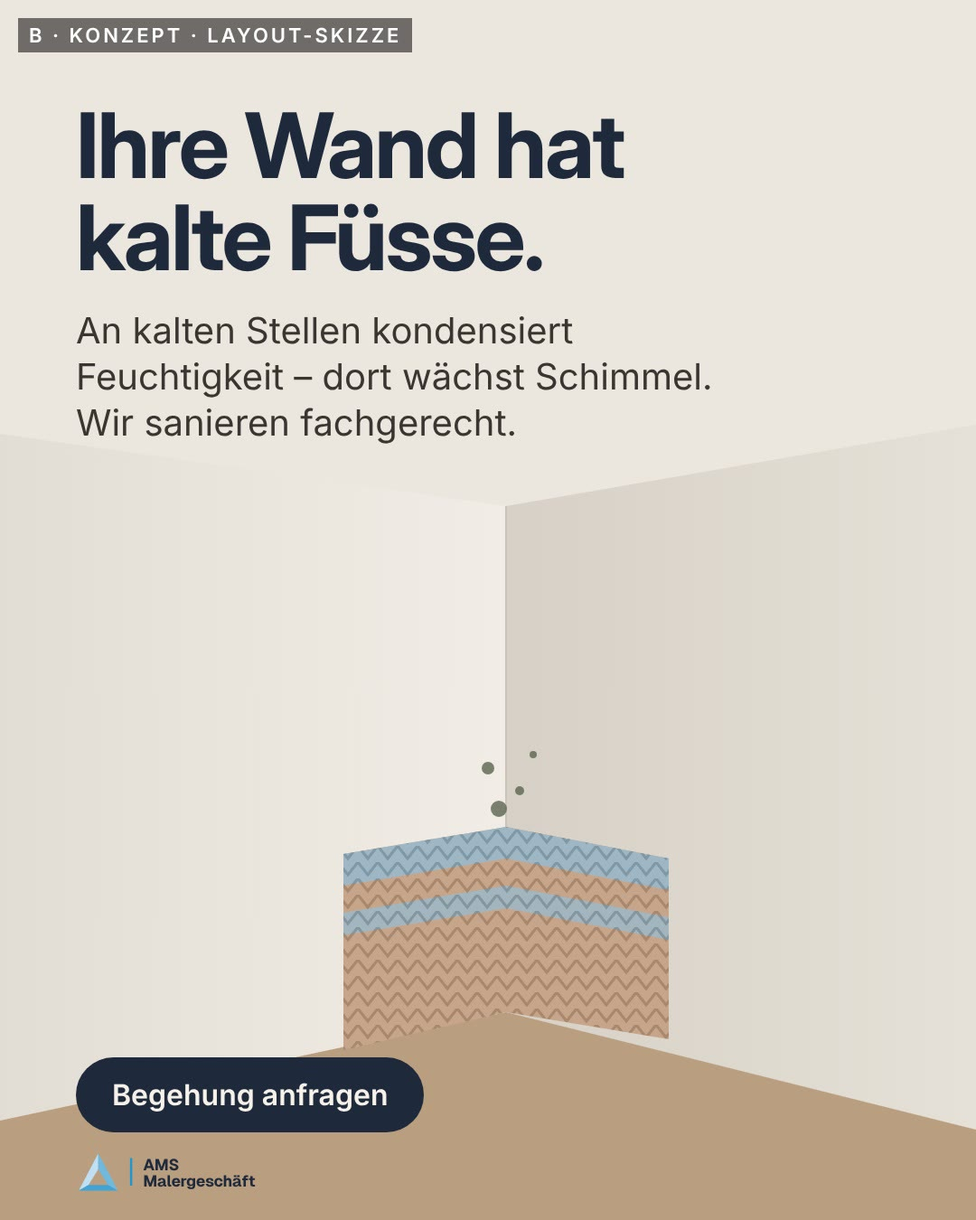
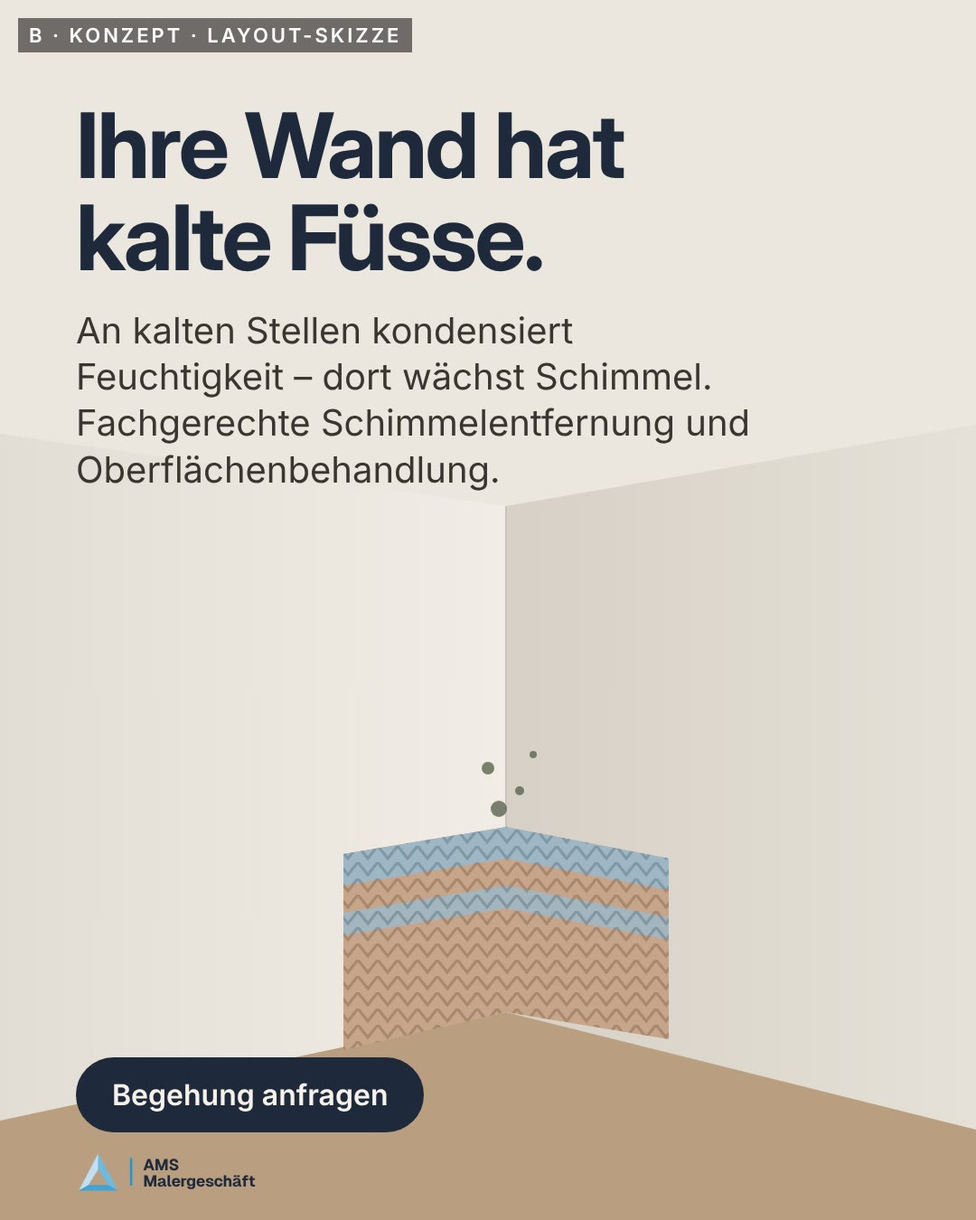
Calibration 03 feedback logged (silent test, calibrated claims rule); calibration 04 retail fit-out ×3 with layout sketches
Claude-Session: https://claude.ai/code/session_01S6zfxMwM7riK18JSe7Qzmo

Changed region(s): [[0.0611, 0.3422, 0.7639, 0.4044]]

diff --git a/motion/calibration/layouts/r-a-direkt.html b/motion/calibration/layouts/r-a-direkt.html
@@ -1,0 +1,25 @@
+<!doctype html><html><head><meta charset="utf-8"><link rel="stylesheet" href="../base.css">
+<style>.h{position:absolute;left:84px;top:860px;font-family:InterD;font-weight:700;font-size:88px;line-height:1.03;letter-spacing:-2px;color:#F6F2EA}.h b{color:#3FA3D6}
+.s{position:absolute;left:84px;top:1060px;width:900px;font-family:InterT;font-size:40px;line-height:1.28;color:#E4DED3}
+.pill{position:absolute;left:84px;top:1214px;background:#F6F2EA;color:#1E293B;font-family:InterT;font-weight:600;font-size:32px;padding:20px 38px;border-radius:999px}
+.rule{position:absolute;left:84px;right:84px;height:1px;background:rgba(255,255,255,.35)}
+.sk{position:absolute;left:20px;top:20px;font-family:InterT;font-weight:600;font-size:22px;letter-spacing:3px;color:#fff;background:#0008;padding:6px 12px}
+.cap{font-family:InterT;font-size:20px;fill:#6b645a;letter-spacing:2px}</style></head><body><div id="stage" style="background:#ddd7cd">
+<svg viewBox="0 0 1080 1350" width="1080" height="1350" style="position:absolute;inset:0">
+<defs><linearGradient id="g" x1="0" y1="0" x2="0" y2="1"><stop offset=".5" stop-color="#0b0a09" stop-opacity="0"/><stop offset=".68" stop-color="#0b0a09" stop-opacity=".9"/><stop offset="1" stop-color="#0b0a09"/></linearGradient></defs>
+<!-- left: manual page --><rect x="70" y="150" width="440" height="600" fill="#fbfaf7" transform="rotate(-2 290 450)"/>
+<g transform="rotate(-2 290 450)"><text x="100" y="195" class="cap">STORE MANUAL · DETAIL 4.2</text>
+<path d="M140,640 L140,300 L420,300" stroke="#1E293B" stroke-width="3" fill="none"/><path d="M152,640 L152,312 L420,312" stroke="#1E293B" stroke-width="1.5" fill="none"/>
+<line x1="140" y1="670" x2="420" y2="670" stroke="#3FA3D6" stroke-width="2"/><text x="250" y="700" class="cap">1200</text>
+<rect x="300" y="420" width="90" height="90" fill="#cfc6b8"/><rect x="300" y="530" width="90" height="60" fill="#3a3530"/></g>
+<!-- right: executed corner (photo placeholder) --><rect x="560" y="140" width="460" height="620" fill="#cfc8bc"/>
+<path d="M560,760 L800,560 L800,140" fill="none" stroke="#efebe4" stroke-width="2"/><path d="M800,140 L800,560 L1020,760 L1020,140 Z" fill="#e3ddd3"/><path d="M560,140 L800,140 L800,560 L560,760 Z" fill="#d4ccbf"/>
+<line x1="800" y1="140" x2="800" y2="560" stroke="#8d857a" stroke-width="3"/><text x="580" y="790" class="cap">AUSGEFÜHRT · FILIALE 7</text>
+<!-- dimension line connecting both --><line x1="420" y1="300" x2="800" y2="300" stroke="#3FA3D6" stroke-width="2" stroke-dasharray="8 6"/><circle cx="420" cy="300" r="6" fill="#3FA3D6"/><circle cx="800" cy="300" r="6" fill="#3FA3D6"/>
+<rect width="1080" height="1350" fill="url(#g)"/></svg>
+<div class="rule" style="top:56px"></div><div class="rule" style="top:1306px"></div>
+<div class="h">Wie im Store-Manual.<br><b>Filiale für Filiale.</b></div>
+<div class="s">Maler-, Gipser- und Ladenbauarbeiten für Retail-Rollouts in der Schweiz – abgestimmt mit allen anderen Gewerken.</div>
+<div class="pill">Rollout-Gespräch vereinbaren</div><div style="position:absolute;right:84px;top:1226px" id="logo"></div>
+<div class="sk">RETAIL A · DIREKT · LAYOUT-SKIZZE</div></div><script src="../lib.js"></script>
+<script>document.getElementById('logo').innerHTML=logoSVG(250);window.COMP={width:1080,height:1350,fps:1,duration:1};window.seek=()=>{};</script></body></html>

diff --git a/motion/calibration/layouts/r-b-konzept.html b/motion/calibration/layouts/r-b-konzept.html
@@ -1,0 +1,19 @@
+<!doctype html><html><head><meta charset="utf-8"><link rel="stylesheet" href="../base.css">
+<style>.h{position:absolute;left:84px;top:100px;font-family:InterD;font-weight:700;font-size:92px;line-height:1.03;letter-spacing:-2px;color:#F6F2EA}
+.s{position:absolute;left:84px;top:320px;width:860px;font-family:InterT;font-size:40px;line-height:1.28;color:#d8d2c6}
+.pill{position:absolute;left:84px;top:1196px;background:#F6F2EA;color:#1E293B;font-family:InterT;font-weight:600;font-size:32px;padding:20px 38px;border-radius:999px}
+.sk{position:absolute;left:20px;top:20px;font-family:InterT;font-weight:600;font-size:22px;letter-spacing:3px;color:#fff;background:#0008;padding:6px 12px}</style></head><body><div id="stage" style="background:#0e0d0c">
+<svg viewBox="0 0 1080 1350" width="1080" height="1350" style="position:absolute;inset:0">
+<defs><radialGradient id="torch" cx="62%" cy="62%" r="30%"><stop offset="0" stop-color="#FFF4DC" stop-opacity=".75"/><stop offset="1" stop-color="#FFF4DC" stop-opacity="0"/></radialGradient></defs>
+<path d="M0,1350 L380,930 L1080,930 L1080,1350 Z" fill="#1d1a17"/><rect x="380" y="520" width="700" height="410" fill="#151311"/>
+<!-- new storefront --><rect x="470" y="600" width="520" height="330" fill="#e8e1d5"/><rect x="500" y="640" width="200" height="290" fill="#c9d8e0" opacity=".7"/><rect x="740" y="640" width="220" height="290" fill="#c9d8e0" opacity=".7"/>
+<rect x="470" y="560" width="520" height="70" fill="#2b2723"/><!-- half-raised shutter --><rect x="470" y="600" width="520" height="40" fill="#5d5750"/>
+<rect width="1080" height="1350" fill="url(#torch)"/>
+<!-- guard silhouette --><circle cx="240" cy="820" r="38" fill="#2a2622"/><path d="M190,870 L290,870 L310,1120 L170,1120 Z" fill="#2a2622"/><rect x="180" y="1120" width="40" height="150" fill="#2a2622"/><rect x="250" y="1120" width="40" height="150" fill="#2a2622"/>
+<path d="M290,900 L360,930" stroke="#2a2622" stroke-width="22" stroke-linecap="round"/><path d="M360,930 L640,760 L700,900 Z" fill="#FFF4DC" opacity=".18"/>
+</svg>
+<div class="h">Der Einzige, der<br>uns gesehen hat.</div>
+<div class="s">Ladenbau im laufenden Betrieb: sauber, leise, abgestimmt mit dem Center-Management. ⚠</div>
+<div class="pill">Rollout-Gespräch vereinbaren</div><div style="position:absolute;left:84px;top:1290px" id="logo"></div>
+<div class="sk">RETAIL B · KONZEPT · LAYOUT-SKIZZE</div></div><script src="../lib.js"></script>
+<script>document.getElementById('logo').innerHTML=logoSVG(240);window.COMP={width:1080,height:1350,fps:1,duration:1};window.seek=()=>{};</script></body></html>

diff --git a/motion/calibration/layouts/r-c-story.html b/motion/calibration/layouts/r-c-story.html
@@ -1,0 +1,13 @@
+<!doctype html><html><head><meta charset="utf-8"><link rel="stylesheet" href="../base.css">
+<style>#stage{background:#14120f}.g{position:absolute;left:40px;top:120px;display:grid;grid-template-columns:490px 490px;gap:20px}
+.p{height:360px;background:#1f1c18;border:1px solid #3a342d;position:relative;padding:22px;box-sizing:border-box;font-family:InterT;color:#d8d2c6}
+.t{font-weight:600;font-size:22px;color:#3FA3D6;letter-spacing:2px}.d{font-size:24px;line-height:1.3;margin-top:10px}.v{font-size:25px;line-height:1.3;margin-top:14px;color:#F6F2EA;font-style:italic}
+.hd{position:absolute;left:40px;top:40px;font-family:InterD;font-weight:700;font-size:38px;color:#F6F2EA}
+</style></head><body><div id="stage"><div class="hd">RETAIL C · Storytelling · «Fünf Städte. Eine Handschrift.» (27 s)</div><div class="g">
+<div class="p"><div class="t">0–4 s · ZWEIFEL</div><div class="d">Hauptsitz, spät. Karte der Schweiz mit fünf Pins. Ihr Daumen auf dem letzten.</div><div class="v">«Fünf Städte. Drei Sprachen. Ein Standard?»</div></div>
+<div class="p"><div class="t">4–8 s · DAS DETAIL</div><div class="d">Ihr Finger fährt über das Detail im Store-Manual: Kante mit Schattenfuge.</div><div class="v">—</div></div>
+<div class="p"><div class="t">8–18 s · REISE</div><div class="d">Match Cuts auf dieselbe Kante: Zürich → Bern → Basel → Lausanne → Lugano. Nur Licht und Sprache ändern sich: Eröffnung · Ouverture · Apertura. ⚠</div><div class="v">Eine Melodie, jede Stadt ein Instrument mehr.</div></div>
+<div class="p"><div class="t">18–24 s · BEWEIS</div><div class="d">Sie besucht die fünfte Filiale, fährt selbst über die Kante, lächelt: Sie weiss nicht, in welcher Stadt sie ist.</div><div class="v">—</div></div>
+<div class="p"><div class="t">24–27 s · ERÖFFNUNG</div><div class="d">Türen öffnen sich, erste Kundschaft. Nachricht vom Team: «Bereit.»</div><div class="v">—</div></div>
+<div class="p"><div class="t">ENDKARTE · 4 s</div><div class="d">«Fünf Städte. Eine Handschrift.» Maler, Gipser, Ladenbau – abgestimmt mit allen anderen Gewerken.</div><div class="v">CTA: Rollout-Gespräch vereinbaren</div></div>
+</div></div><script>window.COMP={width:1080,height:1350,fps:1,duration:1};window.seek=()=>{};</script></body></html>

diff --git a/motion/calibration/layouts/c-story.html b/motion/calibration/layouts/c-story.html
@@ -8,6 +8,6 @@
 <div class="p"><div class="t">3–9 s · DIE FAMILIE</div><div class="d">POV aus der Ecke: Kochen, Duschen, Wäsche, das Fenster beschlägt.</div><div class="v">«Sie kochen. Sie duschen. Sie trocknen Wäsche. Ich liebe diese Familie.»</div></div>
 <div class="p"><div class="t">9–14 s · ESKALATION</div><div class="d">Spalt hinter dem Schrank an der Aussenwand, Zeitraffer: die Flecken wachsen.</div><div class="v">«Und den Schrank direkt an die Aussenwand. Perfekt.»</div></div>
 <div class="p"><div class="t">14–18 s · WENDE</div><div class="d">Die Mutter zieht den Schrank weg, die Tochter schaut hinein. Stille. Es klingelt.</div><div class="v">«… Oh.»</div></div>
-<div class="p"><div class="t">18–25 s · AMS</div><div class="d">Das Team deckt ab, arbeitet ruhig und sauber. Die Stimme wird nervös.</div><div class="v">«Moment. Was machen die?» ⚠</div></div>
-<div class="p"><div class="t">25–30 s · AUFLÖSUNG</div><div class="d">Saubere Ecke, Schrank mit Abstand. Die Tochter lüftet kurz und lacht. Endkarte + CTA.</div><div class="v">«Fachgerecht saniert. Bevor er sich wohlfühlt.»</div></div>
+<div class="p"><div class="t">18–25 s · AMS</div><div class="d">Das Team deckt ab, entfernt den Schimmel, behandelt die Oberfläche. Die Stimme wird nervös.</div><div class="v">«Moment. Was machen die? … Die nehmen mich einfach weg!»</div></div>
+<div class="p"><div class="t">25–30 s · AUFLÖSUNG</div><div class="d">Saubere Ecke, Schrank mit Abstand. Die Tochter lüftet kurz und lacht.</div><div class="v">«… und wenn die jetzt auch noch richtig lüften …» Endkarte: «Schimmel entdeckt? Wir kümmern uns um die betroffenen Oberflächen.»</div></div>
 </div></div><script>window.COMP={width:1080,height:1350,fps:1,duration:1};window.seek=()=>{};</script></body></html>

diff --git a/motion/calibration/layouts/a-direkt.html b/motion/calibration/layouts/a-direkt.html
@@ -26,7 +26,7 @@
 <div class="rule" style="top:56px"></div><div class="rule" style="top:1300px"></div>
 <div style="position:absolute;left:84px;top:84px" id="logo"></div>
 <div class="h">Schauen Sie mal<br><b>hinter den Schrank.</b></div>
-<div class="s">Im Winter wächst Schimmel dort, wo niemand hinschaut. Wir sanieren fachgerecht.</div>
+<div class="s">Im Winter wächst Schimmel dort, wo niemand hinschaut. Wir kümmern uns um die betroffenen Oberflächen.</div>
 <div class="url">ams-malergeschaeft.ch</div><div class="pill">BEGEHUNG ANFRAGEN</div>
 <div class="small">Offerte innert 24 Stunden · werktags, nach der Besichtigung</div>
 <div class="sk">A · DIREKT · LAYOUT-SKIZZE</div>

diff --git a/motion/calibration/layouts/b-konzept.html b/motion/calibration/layouts/b-konzept.html
@@ -22,7 +22,7 @@
  <g fill="#5b6650" opacity=".8"><circle cx="540" cy="850" r="7"/><circle cx="575" cy="875" r="5"/><circle cx="552" cy="895" r="9"/><circle cx="590" cy="835" r="4"/></g>
 </svg>
 <div class="h">Ihre Wand hat<br>kalte Füsse.</div>
-<div class="s">An kalten Stellen kondensiert Feuchtigkeit – dort wächst Schimmel. Wir sanieren fachgerecht.</div>
+<div class="s">An kalten Stellen kondensiert Feuchtigkeit – dort wächst Schimmel. Fachgerechte Schimmelentfernung und Oberflächenbehandlung.</div>
 <div class="pill">Begehung anfragen</div>
 <div style="position:absolute;left:84px;top:1272px" id="logo"></div>
 <div class="sk">B · KONZEPT · LAYOUT-SKIZZE</div>

diff --git a/creative/calibration/04-versatility-retail.md b/creative/calibration/04-versatility-retail.md
@@ -1,0 +1,128 @@
+# Calibration 04 — Versatility: B2B retail fit-out — study, no credits
+
+## Brief (same for all three)
+- **Audience:** retail brands expanding in Switzerland: expansion and store-development managers, store-design leads, retail operations. Shopping-centre managers are a secondary audience.
+- **Commercial objective:** qualified rollout conversations (B2B contracts). CTA: «Rollout-Gespräch vereinbaren.»
+- **KPI:** qualified meetings, tender invitations, meeting → offer in AMS OS.
+- **Scope (claims register, hypothesis B):** AMS executes painting, drywall/Gipser and retail fit-out under its own responsibility, coordinated with all other trades. Allowed: «abgestimmt mit allen anderen Gewerken». Forbidden: «alle Gewerke», «Generalunternehmer», naming trades AMS does not execute.
+- **Guardrails:**
+  - No «Offerte innert 24 Stunden» (B2B).
+  - Promise words (am geplanten Tag, pünktlich, jede, garantiert) only with proof or a softer frame.
+  - Never name or imply real brands. Blocklist respected: no TSG, Viega, SIXT, Arc'teryx, Copenhagen.
+- **Lessons applied:**
+  - Each idea needs its own logic.
+  - Give on-screen text its reading time.
+  - Add human emotion.
+  - Use transitions that change meaning.
+  - Measure contrast.
+  - Avoid the conductor, which is already ours.
+  - Avoid B2B clichés: stopwatch, handshake, chess, puzzle, relay baton.
+
+**Buyer insight.** An expansion manager is judged on three things nobody sees in a render:
+1. Does store no. 7 look exactly like store no. 1?
+2. Did the work disturb the centre and the neighbours?
+3. Can they trust a partner they rarely meet on site?
+
+The emotional driver is **control from a distance**.
+
+---
+
+## A — Direct advertising · logic: the buyer's own document as proof standard
+**Idea in one sentence:** Every retail brand has a store manual; AMS's promise is to execute it faithfully, store after store.
+
+- **Headline:** «Wie im Store-Manual. Filiale für Filiale.»
+- **Sub:** «Maler-, Gipser- und Ladenbauarbeiten für Retail-Rollouts in der Schweiz – abgestimmt mit allen anderen Gewerken.»
+- **CTA:** «Rollout-Gespräch vereinbaren»
+- **Visual (19/10 template, B2B tone):** top-down flat lay. On the left, an open store manual page:
+  - a technical detail drawing of a wall corner with dimensions;
+  - a colour field;
+  - a material swatch.
+
+  On the right, a photo of the executed corner, identical down to the shadow gap. A thin dimension line runs across both and connects them.
+- **Why it converts:** it speaks the buyer's language (manual, detail, standard) and turns «quality» into something checkable. It qualifies the audience by itself: only people who own a store manual feel addressed.
+- **Pre-flight:**
+  - ✓ «Filiale für Filiale» describes a method, not a guarantee.
+  - Re-checked with the calibrated claims rule (2026-10-22): «In jeder Filiale.» would also be a legitimate advertising expression (evaluative, not a measurable commitment). Both work; «Filiale für Filiale» keeps the rhythm of a rollout.
+  - ✓ Scope B wording.
+  - ✓ No 24 h.
+  - ✓ No brand shown: the manual is a fictional, neutral one.
+- **Scores (discounted):** Surprise 3 · Clarity 4.5 · Ownability 4 · Premium 4.5 · Feasibility 5.
+
+## B — Conceptual advertising · logic: unexpected witness (humour about invisibility)
+**Idea in one sentence:** The best fit-out in a running centre is the one nobody notices, so the only witness is the night guard.
+
+- **Headline:** «Der Einzige, der uns gesehen hat.»
+- **Sub:** «Ladenbau im laufenden Betrieb: sauber, leise, abgestimmt mit dem Center-Management.» ⚠
+- **CTA:** «Rollout-Gespräch vereinbaren»
+- **Visual:**
+  - A shopping centre at night, empty.
+  - A security guard stops his patrol; his torch lights up a brand-new, flawless storefront. It is still behind a half-raised shutter, with no logo on it.
+  - His expression is half impressed, half puzzled: yesterday this was a construction site.
+  - Nothing else in the mall shows that work happened.
+- **Why it works:**
+  - The benefit (minimal disruption, clean handover) is shown through its effect, not the work.
+  - The human face carries the joke.
+  - Centre managers, a secondary audience, recognise their own fear.
+- **Pre-flight:**
+  - ⚠ «im laufenden Betrieb» and night work: does AMS work outside opening hours in operating centres? Confirm before use. Fallback sub without night work: «Ladenbau, der den Betrieb nicht stört – abgestimmt mit allen anderen Gewerken.»
+  - ✓ No cliché.
+  - Culture: a Swiss centre (signage in German, CHF prices in neighbouring windows).
+- **Scores (discounted):** Surprise 4 · Clarity 4 · Ownability 3.5 · Premium 4 · Feasibility 4.
+
+## C — Cinematic storytelling · logic: one detail travels through Switzerland (match-cut journey, the client as protagonist)
+**Idea in one sentence:** An expansion manager wonders whether five stores in three language regions can feel like one; one physical detail, matched from city to city, answers the question.
+
+| Time | Picture | Text / VO | Sound |
+|---|---|---|---|
+| 0–4 s | Head office, late. The expansion manager (40s, tired) looks at a map of Switzerland with five pins. Close-up on her thumb on the last pin | VO (her, inner): «Fünf Städte. Drei Sprachen. Ein Standard?» | Clock-less silence, rain on glass |
+| 4–8 s | Close-up: her finger traces the manual's detail drawing, a wall edge with a shadow gap | — | Paper |
+| 8–18 s | **Match cuts on the same detail.** A hand runs along the finished edge in Zürich → the same move, the same edge in Bern → Basel → Lausanne → Lugano. Each cut changes only the light and the language on the hoarding: «Eröffnung», «Ouverture», «Apertura» | — | One musical phrase carried through every cut, each city adding one instrument |
+| 18–24 s | She visits the fifth store. She runs her own hand along the edge, stops, smiles: she can't tell which city she is in | — | The phrase resolves |
+| 24–27 s | The doors open; first customers; her phone shows a photo from the team: «Bereit.» | — | Room tone, a soft chime |
+| End card | «Fünf Städte. Eine Handschrift.» / «Maler, Gipser, Ladenbau – abgestimmt mit allen anderen Gewerken.» / CTA «Rollout-Gespräch vereinbaren» | — | — |
+
+- **Why this logic:**
+  - The client is the hero, and AMS is the hand that never appears as a logo until the end. Emotion: relief from control at a distance.
+  - The transitions change meaning: the same detail stands for the same standard across cities.
+  - It shows AMS's ambition (multi-region, later Europe) without claiming it.
+- **Pre-flight:**
+  - ⚠ Does AMS execute in Romandie and Ticino? If not yet, use only cities AMS serves; the logic works with three cities too.
+  - «Eine Handschrift» is a metaphor for a consistent standard, not a guarantee.
+  - The end-card sub keeps the scope B wording.
+  - Reading time: the end card has 2 lines and 2.5 s minimum, so the card holds 4 s.
+- **Scores (discounted):** Surprise 3.5 · Clarity 4 · Ownability 4.5 · Premium 5 · Feasibility 2.5 (multi-location look, cast, consistent detail; AI video possible but costly).
+
+---
+
+## Ideas I discarded (and why)
+- **Countdown / stopwatch to opening day:** the standard B2B cliché.
+- **Relay race, the baton passed between trades:** a 2nd-level cliché, and the baton is already the conductor's.
+- **Puzzle pieces forming a store:** a cliché, and «puzzle» implies AMS assembles all trades, which is a scope A risk.
+- **«Ihre ersten Kunden campieren schon.»:** exists already; it also carries an unproven on-time promise (retro finding N1).
+
+## Which approach for which objective
+| Objective | Choice | Why |
+|---|---|---|
+| Qualified meetings now (LinkedIn, targeted by job title) | **A, direct** | Speaks the buyer's language; self-qualifying; easy to back with case photos |
+| Recognition and talk among retail ops and centre managers | **B, conceptual** | Human face and humour; shareable; positions «no disruption» |
+| Premium positioning, pitches, website, multi-region ambition | **C, storytelling** | Emotion plus proof of standard; works as a pitch film; highest cost, so later |
+
+**Recommended system:**
+1. A runs first, because B2B buyers need proof before poetry.
+2. B supports reach.
+3. C becomes the pitch film once AMS has real rollout footage. Real footage is better than AI here, because B2B buyers check authenticity.
+
+## Self-critique after Adriano's feedback on calibration 03
+- **Silent test:**
+  - **A passes.** The manual and the executed corner, joined by a dimension line, say «faithful execution» without words.
+  - **B half passes.** Without the headline it is «a guard sees a shop at night»; the *invisibility* of the work is not yet visible. Stronger cue (not produced): the folded construction hoarding on a trolley beside the finished store, still labelled «Hier entsteht …», and the guard's coffee steaming.
+  - **C** carries its meaning through the edit (the same edge in five cities), so it works without words.
+- **Claims rule:** «Eine Handschrift.» and «Filiale für Filiale» are advertising expressions and stay. «im laufenden Betrieb» and multi-region coverage are **service facts**, so they stay ⚠ until confirmed.
+
+## What I learned from repeating the exercise
+- In B2B the strongest emotion is **relief** (control, no surprises), not laughter. Humour works only when it shows a professional virtue (B).
+- Scope discipline shaped the ideas: I avoided every metaphor that implies «we do everything» (puzzle, conductor, relay).
+- Open questions for Adriano:
+  1. Night/weekend work in operating centres?
+  2. Romandie/Ticino coverage?
+  3. Real rollout photos for A?

diff --git a/creative/calibration/03-versatility-schimmel.md b/creative/calibration/03-versatility-schimmel.md
@@ -4,7 +4,7 @@
 - **Audience:** B2C: owners and tenants in the Zürich area (private landlords included).
 - **Commercial objective:** winter leads for mould remediation (Schimmelsanierung): Begehungen in Nov–Feb, team utilisation.
 - **KPI:** site-visit requests (Begehung), cost per lead, request → offer rate in AMS OS.
-- **Service:** Schimmel is in AMS's service list. Approved wording: «fachgerecht saniert».
+- **Service (confirmed by Adriano 2026-10-22):** mould removal and treatment of the affected surfaces. Not structural moisture diagnosis, thermal bridges or leaks. Approved wording: «Fachgerechte Schimmelentfernung und Oberflächenbehandlung.» / «Schimmel entdeckt? Wir kümmern uns um die betroffenen Oberflächen.» Never promise it won't return.
 - **Consumer insight:**
   1. Mould peaks in winter. Warm, humid indoor air condenses on cold spots: outer walls, corners, behind furniture.
   2. People notice it late, because it grows where nobody looks.
@@ -24,7 +24,7 @@ The test: three **different ideas**, each with its own creative logic, not one i
 **Idea in one sentence:** The ad gives the reader a 10-second task. If they find something, AMS is the next step.
 
 - **Headline:** «Schauen Sie mal hinter den Schrank.»
-- **Sub:** «Im Winter wächst Schimmel dort, wo niemand hinschaut. Wir sanieren fachgerecht.»
+- **Sub (v2):** «Im Winter wächst Schimmel dort, wo niemand hinschaut. Schimmel entdeckt? Wir kümmern uns um die betroffenen Oberflächen.»
 - **CTA:** «Begehung anfragen». Small print: «Offerte innert 24 Stunden · werktags, nach der Besichtigung».
 - **Visual (19/10 house template):**
   - A tidy, bright bedroom. A wardrobe has been pulled about 30 cm away from the outer wall.
@@ -45,7 +45,7 @@ The test: three **different ideas**, each with its own creative logic, not one i
 - **Headline:** «Ihre Wand hat kalte Füsse.»
   - Literal: cold feet. Idiom: «kalte Füsse bekommen» = getting nervous.
   - The wall is cold *and* there is something to worry about.
-- **Sub:** «An kalten Stellen kondensiert Feuchtigkeit – dort wächst Schimmel. Wir sanieren fachgerecht.»
+- **Sub (v2):** «An kalten Stellen kondensiert Feuchtigkeit – dort wächst Schimmel. Fachgerechte Schimmelentfernung und Oberflächenbehandlung.» (Explaining the cause is education; AMS's role stays the surfaces.)
 - **CTA:** «Begehung anfragen».
 - **Visual:**
   - The lower corner of a calm, elegant room, where two outer walls meet the floor.
@@ -75,19 +75,19 @@ Why this logic:
 | 3–9 s | From the corner's POV: the family's evening. Pasta water steaming, a hot shower, laundry on a rack, the window fogging | «Sie kochen. Sie duschen. Sie trocknen Wäsche. Ich liebe diese Familie.» | Warm home sounds, muffled |
 | 9–14 s | The wardrobe against the outer wall; the camera slides into the gap. Grey spots spread in time-lapse as calendar days pass on the wall | «Und den Schrank haben sie direkt an die Aussenwand gestellt. Perfekt.» | A slow, smug cello note |
 | 14–18 s | Turn: the mother pulls the wardrobe away; her face; the daughter peeks in | «… Oh.» | Silence, then a doorbell |
-| 18–25 s | The AMS team arrives: covers furniture, works with care, calm and clean. The mould's voice gets nervous | «Moment. Was machen die? Die schauen sich ja alles genau an …» ⚠ | Precise, rhythmic work sounds |
-| 25–30 s | The finished corner, the wardrobe back with a gap; the daughter opens the window for a few minutes in the cold morning and laughs | (no voice; the villain is gone) | Morning birds |
-| End card | «Schimmel kommt jeden Winter wieder. Wir nicht.»* / CTA «Begehung anfragen» | — | Chime |
+| 18–25 s | The AMS team arrives: covers furniture, protects the floor, removes the mould and treats the surface with care, calm and clean. The mould's voice gets nervous | «Moment. Was machen die? … Die nehmen mich einfach weg!» | Precise, rhythmic work sounds |
+| 25–30 s | The finished corner, the wardrobe back with a gap; the daughter opens the window for a few minutes in the cold morning and laughs | Mould, fading, one last whisper: «… und wenn die jetzt auch noch richtig lüften …» (honest: the outcome also depends on the household, said with humour) | Morning birds |
+| End card | «Schimmel entdeckt? Wir kümmern uns um die betroffenen Oberflächen.» / CTA «Begehung anfragen» | — | Chime |
 
-*End line check:
-- «Wir nicht» means AMS doesn't need to come back, which implies a lasting result: **⚠ guarantee risk** under pre-flight 3.
-- Safer alternatives: «Schimmel hat einen Grund. Wir nehmen ihn ernst.» or «Fachgerecht saniert. Bevor er sich wohlfühlt.»
-- Julia's recommendation: «Fachgerecht saniert. Bevor er sich wohlfühlt.» It keeps the villain's tone without promising permanence.
+*End line history:
+- v1 «Schimmel kommt jeden Winter wieder. Wir nicht.» was rejected by the check: it implies a lasting result.
+- v1b «Fachgerecht saniert. Bevor er sich wohlfühlt.» was replaced after the 2026-10-22 scope decision, because «saniert» can suggest fixing the cause.
+- v2 is the approved service line. The villain's last whisper carries the honesty with humour: the result also depends on airing.
 
 - **Pre-flight:**
   - Must not become disgusting or horror: no face on the mould, voice only.
   - No health claims.
-  - ⚠ VO at 18–25 s implies a diagnosis; keep it only if AMS does cause analysis.
+  - VO 18–25 s now shows removal, not diagnosis (scope confirmed).
 - **Scores (discounted):** Surprise 4 · Clarity 4 · Ownability 4 · Premium 4 · Feasibility 2.5 (Reel production, a family cast, a Swiss voice).
 
 ---
@@ -110,4 +110,4 @@ Why this logic:
 - A is the safest and least original; its surprise comes from the task, not the image.
 - B depends on one image working at small size; the main risk is clarity, not originality.
 - C is the strongest idea and the most expensive; its end line was my first draft with a guarantee risk, caught by the check.
-- Open question for Adriano: does AMS measure moisture or diagnose the cause? It changes B's sub and C's 18–25 s.
+- Answered 2026-10-22: surface removal and treatment only. B's sub, A's sub and C's 18–30 s and end card updated; creativity unchanged.

diff --git a/creative/CREATIVE-COMPETENCIES.md b/creative/CREATIVE-COMPETENCIES.md
@@ -17,7 +17,12 @@ Scope: marketing and advertising only. Operations (Jarvis), CRM/data (AMS OS) an
 ## Pre-flight check (before any credit is spent)
 1. **Objective → style:** is the style justified by the objective and the KPI?
 2. **Idea:** can it be said in one sentence? Would a stranger stop scrolling? Is there a 2nd-level cliché?
-3. **Claims:** every promise checked against the claims register (`advertising-storytelling` skill): scope, time, guarantee words (dauerhaft, garantiert, immer, alle, jede, am geplanten Tag, termingerecht, pünktlich, auf den Takt genau). Each needs a proof source or a softer frame; in B2B always.
+2b. **Silent test (visual metaphors):** cover the headline. Does the image alone show the idea? If the metaphor only lives in the words, the image needs a stronger visual cue (exaggeration, a recognisable object in the wrong place, a familiar gesture). Hierarchy: within 1 s, is the key element (e.g. the mould) the first thing the eye finds?
+3. **Claims, two kinds (calibrated 2026-10-22):**
+   - **Contractual commitment:** a statement a client could hold AMS to, such as a date, a deadline, a duration, permanence of a result, a scope of services, or a number. It needs proof or a softer frame. Examples: «am geplanten Tag», «dauerhaft», «nie wieder», «alle Gewerke», «innert 24 Stunden» (B2B).
+   - **Legitimate advertising expression:** figurative, evaluative or tonal language that no reasonable reader takes as a contract. Keep it. Examples: «Auf den Takt genau.», «Eine Handschrift.», «Die Kante macht den Meister.»
+   - The promise-word list triggers a **review**, not an automatic deletion. Ask: «Could a client sue or claim a discount on this sentence?» If not, keep the good line. Don't kill strong copy out of excess caution.
+   - Service facts are always checked against the claims register (e.g. mould = surface removal and treatment only).
 4. **Culture and season:** Swiss details (yellow post boxes, CHF, ss not ß); can AMS actually execute it in this season?
 5. **Composition plan:** where do the headline, subject, CTA and logo sit? Is a clean zone reserved for the logo, and which variant?
 6. **Brand:** official logo only; no invented colours; no boxes; brand name once per layout (logo *or* kicker).

diff --git a/creative/LEARNINGS.md b/creative/LEARNINGS.md
@@ -36,3 +36,9 @@ Read before every new concept. Add an entry after every decision by Adriano.
   - **Sound quality:** synthetic sound and TTS are for timing only; final pieces need recorded or licensed sounds and a Swiss voice.
   - **Music → architecture:** the strongest transition was meaning-driven (staves → ceiling lights, score → Bauprogramm). Seek transitions where the object changes meaning, not just shape.
   - **Human emotion:** abstract motion proves structure but lacks feeling; final pieces need human beats (faces, hands, a reaction, a joke).
+- 2026-10-22 Calibration 03 (mould ×3) **approved as concept exercise.**
+  - A (self-check «Schauen Sie mal hinter den Schrank.»): strong commercial logic; needs clearer hierarchy and a more evident mould discovery.
+  - B («Ihre Wand hat kalte Füsse.»): the words beat the picture. Lesson: a visual metaphor must pass the **silent test** (understood without the headline).
+  - C (the mould as villain-narrator): the most creative; **kept in the repertoire** as a reusable device (an antagonist narrator removes the client's shame).
+  - Precision: never imply a surface treatment ends mould for good when moisture causes remain.
+  - Calibrated claims rule: distinguish **contractual commitments** (need proof) from **legitimate advertising expressions** (keep). Excess caution kills good lines.
